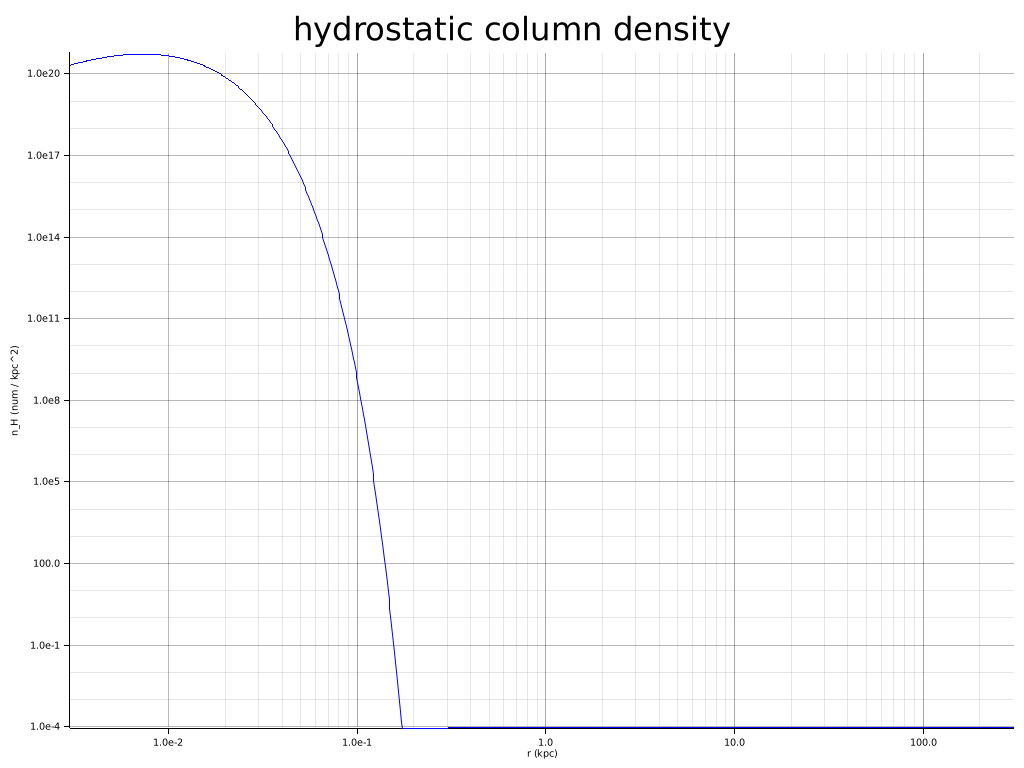
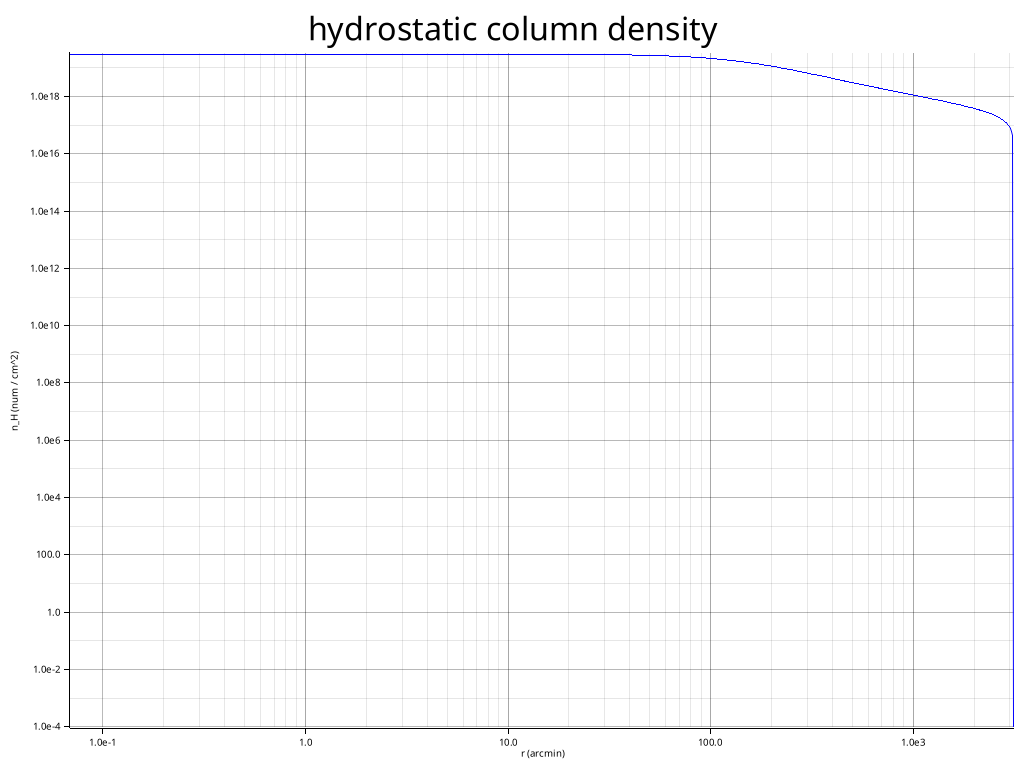
column density working, next up cored profiles

diff --git a/src/hydrostatics.rs b/src/hydrostatics.rs
@@ -3,11 +3,15 @@ use std::f64::consts::PI;
 use crate::plotting::plot_function;
 
 const SPACIAL_GRID_NUM: usize = 1000;
-const GG: f64 = 4.301e-6; // Newton constant km^2 kpc / Msun s^2
-const KM_IN_KPC: f64 = 3.086e16;
+pub const GG: f64 = 4.301e-6; // Newton constant km^2 kpc / Msun s^2
+pub const KM_IN_KPC: f64 = 3.086e16;
+pub const CM_IN_KPC: f64 = 3.086e21;
 //const K_B: f64 = 7.29e-93; // Boltzmanns constant Msun kpc^2 / s^2 K
-const MP_OVER_KB: f64 = 1.15349467e35; // Proton mass over boltzmann constant s^2 K / kpc^2
-pub const M_P: f64 = 8.41e-49; // Proton mass in Msun
+pub const MP_OVER_KB: f64 = 1.15349467e35 * MOLECULAR_WEIGHT; // Particle mass over boltzmann constant s^2 K / kpc^2
+pub const M_PROTON: f64 = 8.41e-58; // Proton mass in Msun
+pub const MOLECULAR_WEIGHT: f64 = 0.5;
+pub const DISTANCE:f64 = 5e3; // 5 MPC or 5000 KPC
+pub const ARC_MIN: f64 = PI / 10800.0;
 
 fn get_r_points(bounds: (f64, f64)) -> Vec<f64> {
     let mut r_points = Vec::with_capacity(SPACIAL_GRID_NUM);
@@ -64,6 +68,7 @@ fn get_column_density(rho_points: Vec<f64>, r_points: &Vec<f64>) -> Vec<f64> {
     // Σ(R) = 2 ∫_0^∞ ρ(√(z² + R²)) dz = 2 ∫_R^∞ [ρ(r) * r / √(r² - R²)] dr
 
     let mut sigma = vec![0.0; r_points.len()];
+    let r_max = *r_points.last().unwrap();
     let z_points = r_points.clone();
 
     for i in 0..r_points.len() {
@@ -76,7 +81,7 @@ fn get_column_density(rho_points: Vec<f64>, r_points: &Vec<f64>) -> Vec<f64> {
             let r1 = (z1.powi(2) + r_projected.powi(2)).sqrt();
             let r2 = (z2.powi(2) + r_projected.powi(2)).sqrt();
 
-            if &r2 > r_points.last().unwrap() {
+            if r1 > r_max {
                 break;
             }
 
@@ -143,13 +148,14 @@ pub fn isothermal_abg_background(
     gamma: f64,
     rho_s: f64,
     r_s: f64,
+    bounds: (f64, f64),
     rho_center: f64,
 ) {
     let rho = |r: f64| -> f64 {
         rho_s / ((r / r_s).powf(gamma) * (1.0 + (r / r_s).powf(alpha)).powf((beta - gamma) / alpha))
     };
 
-    let r_points = get_r_points((r_s * 1e-3, r_s * 1e2));
+    let r_points = get_r_points(bounds);
 
     let dark_matter_rho_points = get_rho_points(rho, &r_points);
 
@@ -163,7 +169,7 @@ pub fn isothermal_abg_background(
     let number_density = {
         let mut num_density = Vec::with_capacity(rho_points.len());
         for i in 0..rho_points.len() {
-            num_density.push(rho_points[i] / M_P)
+            num_density.push(rho_points[i] / M_PROTON)
         }
         num_density
     };
@@ -178,15 +184,30 @@ pub fn isothermal_abg_background(
     )
     .unwrap();
 
-    let column_density = get_column_density(number_density, &r_points);
+    let column_density = {
+        let mut col_dens = get_column_density(number_density, &r_points);
+        for i in 0..col_dens.len() {
+            col_dens[i] /= CM_IN_KPC.powi(2);
+        }
+        col_dens
+    };
+
+    let angular_points = {
+        let mut ang_points = r_points.clone();
+        for i in 0..ang_points.len() {
+            ang_points[i] /= DISTANCE; // radians
+            ang_points[i] /= ARC_MIN; // arc mins
+        }
+        ang_points
+    };
 
     plot_function(
-        &r_points,
+        &angular_points,
         &column_density,
         "column.png",
         "hydrostatic column density",
-        "r (kpc)",
-        "n_H (num / kpc^2)",
+        "r (arcmin)",
+        "n_H (num / cm^2)",
     )
     .unwrap();
 }
@@ -196,7 +217,7 @@ mod tests {
     use super::*;
 
     #[test]
-    fn test_column_density() {
+    fn test_column_density_inv() {
         let r_points = get_r_points((1e-3, 1e3));
         let rho_points = get_rho_points(|r: f64| r.powi(-2), &r_points);
         //dbg!(&rho_points);
@@ -221,6 +242,46 @@ mod tests {
 
         let rms_err: f64 = {
             let mut rms_err: f64 = 0.0;
+            for i in 0..err.len() - 1 {
+                rms_err += err[i].powi(2) * (r_points[i+1] - r_points[i])
+            }
+            rms_err /= r_points.last().unwrap();
+            rms_err.sqrt()
+        };
+
+        if rms_err > 0.01 || !rms_err.is_finite() {
+            //dbg!(err);
+            plot_function(&r_points, &err, "column_err_check.png", "Column Density Error", "r (kpc)", "% err").unwrap();
+            panic!("rms error too high! rms_err = {rms_err}")
+        }
+    }
+    
+    #[test]
+    fn test_column_density_lin() {
+        let r_points = get_r_points((1e-3, 1e3));
+        let rho_points = get_rho_points(|_r: f64| 1.0, &r_points);
+        //dbg!(&rho_points);
+        let column_density = get_column_density(rho_points, &r_points);
+
+        let r_max = r_points.last().unwrap();
+        let analytic_column_density = get_rho_points(
+            |r: f64| 2.0 * (r_max.powi(2) - r.powi(2)).sqrt(),
+            &r_points,
+        );
+
+        let err = {
+            let mut err = Vec::with_capacity(r_points.len());
+            for i in 0..r_points.len() {
+                err.push(
+                    (column_density[i] - analytic_column_density[i])
+                        / (analytic_column_density[i] + 1e-15),
+                )
+            }
+            err
+        };
+
+        let rms_err: f64 = {
+            let mut rms_err: f64 = 0.0;
             for i in 0..err.len() {
                 rms_err += err[i].powi(2)
             }
@@ -229,8 +290,10 @@ mod tests {
         };
 
         if rms_err > 0.01 || !rms_err.is_finite() {
-            dbg!(err);
+            //dbg!(err);
+            plot_function(&r_points, &err, "column_err_check2.png", "Column Density Error", "r (kpc)", "% err").unwrap();
             panic!("rms error too high! rms_err = {rms_err}")
         }
     }
+
 }

diff --git a/src/main.rs b/src/main.rs
@@ -1,18 +1,36 @@
+use std::f64::consts::PI;
+
 use crate::hydrostatics::isothermal_abg_background;
 
 mod hydrostatics;
 mod plotting;
 
 fn main() {
-    let init_num_density = 2e18;
+    let target_init_num_col_density = 1e19;
+    let target_init_col_density: f64 = target_init_num_col_density * hydrostatics::M_PROTON * hydrostatics::CM_IN_KPC.powi(2);
+    let temperature = 1e4;
+    let mut sound_speed_squared = temperature / (hydrostatics::MP_OVER_KB); // kpc^2 / s^2
+    sound_speed_squared *= hydrostatics::KM_IN_KPC.powi(2); // km^2 / s^2
+    
+    // r_s = c_s / sqrt(4pi G rho_c)
+    // uniform sphere approx:
+    // Sigma ~ 2*r_s*rho_c = 2 c_s sqrt(rho_c / 4pi G) => rho_c ~ 4pi G * (Sigma / 2c_s)^2 = pi G Sigma^2 / c_s^2 
+    // rho_c (kpc^-3) ~ pi G * (n_sigma (cm^-2) * MP * CMinKPC^2)^2 / c_s^2 
+    // Units: [rho_c] = M_sun kpc^-3 = [G * sigma^2 / c_s^2] = km^2 kpc M_sun^-1 s^-2 * M_sun^2 kpc^-4 * [c_s]^-2 = km^2 kpc^-3 M_sun s^-2 * [c_s]^-2
+    // => [c_s^2] = km^2 kpc^-3 M_sun s^-2 / M_sun kpc^-3 = km^2 / s^2
+    
+    let rho_center_approx = PI * hydrostatics::GG * (target_init_col_density).powi(2) / sound_speed_squared;
+    let scale_radius = sound_speed_squared.sqrt() / (4.0 * PI * hydrostatics::GG * rho_center_approx);
+    println!("Center rho set to: {rho_center_approx}");
 
     isothermal_abg_background(
-        300.0,
+        temperature,
         1.0,
         3.0,
         1.0,
-        1.0e7,
+        0.0e7,
         3.0,
-        init_num_density * hydrostatics::M_P,
+        (1e-1, 10.0*scale_radius),
+        rho_center_approx,
     );
 }

diff --git a/src/plotting.rs b/src/plotting.rs
@@ -23,7 +23,7 @@ pub fn plot_function(
         }
     }
 
-    println!("y_min = {:.3}, y_max={:.3}", y_min, y_max);
+    //println!("y_min = {:.3}, y_max={:.3}", y_min, y_max);
 
     let x_range = (x_points[0]..x_points[x_points.len() - 1]).log_scale();
 
@@ -76,6 +76,6 @@ pub fn plot_function(
     chart.draw_series(LineSeries::new(plot_profile, &BLUE))?;
 
     root.present()?;
-    println!("Plot saved as {}", filename);
+    //println!("Plot saved as {}", filename);
     Ok(())
 }
